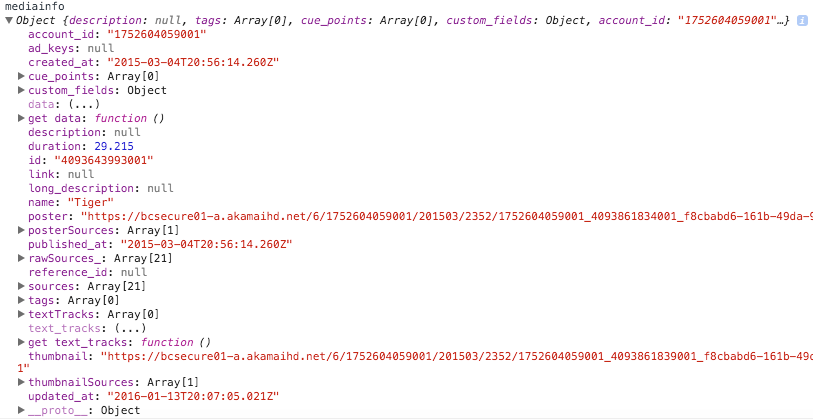
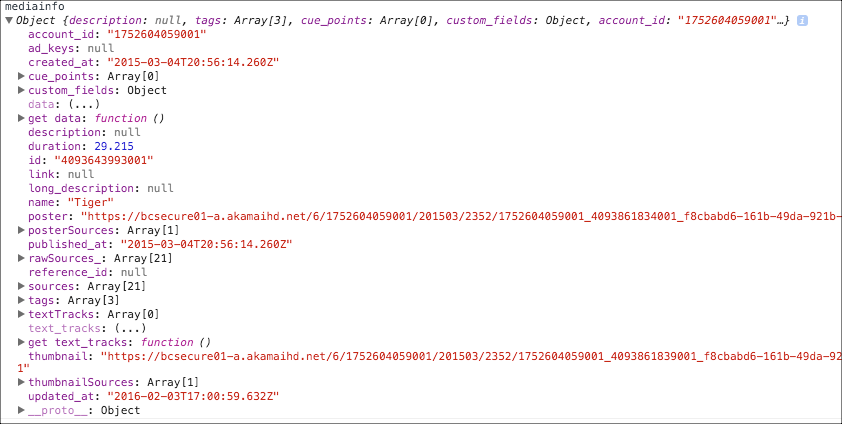
LIRA KNOW-6316

Changed region(s): [[0.0, 0.0, 1.0, 1.0]]

diff --git a/en/perform/brightcove-player/guides/mediainfo.html b/en/perform/brightcove-player/guides/mediainfo.html
@@ -150,7 +150,7 @@
 				</table>
 			</div>
 			<div id="code" class="section video-cloud-only">
-				<h2>Populating mediainfo</h2>
+				<h2>Populate mediainfo</h2>
 				<p>Using the <code>on()</code> method you wait for the <code>loadstart</code> event to be dispatched, then in the corresponding event handler you access the values stored in <code>mediainfo</code> object. From the code below note the use of <code>console.log</code> that displays the <code>mediainfo</code> object (lines 111-113).</p>
 				<p><code data-gist-id="c2c5e5751d2022667ef1" data-gist-hide-footer="true" data-gist-line="100-115" data-gist-highlight-line="111-113"></code></p>
         <p>An example display from the console is shown here:</p>
@@ -169,6 +169,16 @@
 				</ul>
 				<p><code data-gist-id="c2c5e5751d2022667ef1" data-gist-hide-footer="true" data-gist-line="32-59" data-gist-highlight-line="56-57"></code></p>
 			</div>
+      <div id="displaytagsfields" class="section">
+        <h2>Display tags and custom fields</h2>
+        <p>Both the tags and custom fields are stored in complex data structures. The <strong>custom_fields</strong> in an object and <strong>tags</strong> in an array. The following screenshot shows the custom fields and tags highlighted in the <code>mediainfo</code> object.</p>
+        <div><img src="/en/video-cloud/brightcove-player/guides/assets/mediainfo/tags-custom-fields.png" alt="tags and custom fields in console display"></div>
+        <p>To display the data from these complex data structures you need to kinds of loops. A <code>for</code> loop is used to iterate over the tags array (lines 128-133) and inject the dynamically built HTML unordered list into a <code>&lt;div&gt;</code> ( defined in line 125). A <code>for-in</code> loop is used to iterate over the custom fields object (lines 136-140) and inject the dynamically built HTML unordered list into the <code>&lt;div&gt;</code>.</p>
+        <p><code data-gist-id="c2c5e5751d2022667ef1" data-gist-hide-footer="true" data-gist-line="125-140"></code></p>
+        <p>The rendered HTML appears as shown in this screenshot.</p>
+        <div><img src="/en/video-cloud/brightcove-player/guides/assets/mediainfo/html-display.png" alt="tags and custom display in HTML"></div>
+        <p class="BCL-aside">Note: The custom field keys, <strong>customfield1</strong> and <strong>customfield2</strong>, are demo names only. You would choose key names that reflect the data stored in the custom field.</p>
+      </div>
 			<div class="section video-cloud-only" id="BCLreferences">
 				<h2>Related Topics</h2>
 				<ul>

diff --git a/en/video-cloud/brightcove-player/guides/mediainfo.html b/en/video-cloud/brightcove-player/guides/mediainfo.html
@@ -150,7 +150,7 @@
 				</table>
 			</div>
 			<div id="code" class="section video-cloud-only">
-				<h2>Populating mediainfo</h2>
+				<h2>Populate mediainfo</h2>
 				<p>Using the <code>on()</code> method you wait for the <code>loadstart</code> event to be dispatched, then in the corresponding event handler you access the values stored in <code>mediainfo</code> object. From the code below note the use of <code>console.log</code> that displays the <code>mediainfo</code> object (lines 111-113).</p>
 				<p><code data-gist-id="c2c5e5751d2022667ef1" data-gist-hide-footer="true" data-gist-line="100-115" data-gist-highlight-line="111-113"></code></p>
         <p>An example display from the console is shown here:</p>
@@ -169,6 +169,16 @@
 				</ul>
 				<p><code data-gist-id="c2c5e5751d2022667ef1" data-gist-hide-footer="true" data-gist-line="32-59" data-gist-highlight-line="56-57"></code></p>
 			</div>
+      <div id="displaytagsfields" class="section">
+        <h2>Display tags and custom fields</h2>
+        <p>Both the tags and custom fields are stored in complex data structures. The <strong>custom_fields</strong> in an object and <strong>tags</strong> in an array. The following screenshot shows the custom fields and tags highlighted in the <code>mediainfo</code> object.</p>
+        <div><img src="/en/video-cloud/brightcove-player/guides/assets/mediainfo/tags-custom-fields.png" alt="tags and custom fields in console display"></div>
+        <p>To display the data from these complex data structures you need to kinds of loops. A <code>for</code> loop is used to iterate over the tags array (lines 128-133) and inject the dynamically built HTML unordered list into a <code>&lt;div&gt;</code> ( defined in line 125). A <code>for-in</code> loop is used to iterate over the custom fields object (lines 136-140) and inject the dynamically built HTML unordered list into the <code>&lt;div&gt;</code>.</p>
+        <p><code data-gist-id="c2c5e5751d2022667ef1" data-gist-hide-footer="true" data-gist-line="125-140"></code></p>
+        <p>The rendered HTML appears as shown in this screenshot.</p>
+        <div><img src="/en/video-cloud/brightcove-player/guides/assets/mediainfo/html-display.png" alt="tags and custom display in HTML"></div>
+        <p class="BCL-aside">Note: The custom field keys, <strong>customfield1</strong> and <strong>customfield2</strong>, are demo names only. You would choose key names that reflect the data stored in the custom field.</p>
+      </div>
 			<div class="section video-cloud-only" id="BCLreferences">
 				<h2>Related Topics</h2>
 				<ul>

diff --git a/en/perform/brightcove-player/guides/customize-appearance.html b/en/perform/brightcove-player/guides/customize-appearance.html
@@ -173,6 +173,8 @@
         <p>If you wish the icon to appear at the far right of the controlbar, you would replace the <code>insertBefore()</code> with  the <code>appendChild()</code> method, as shown here:</p>
         <p><code data-gist-id="a84d9ce7fb1054d288b6" data-gist-hide-footer="true" data-gist-line="343"></code></p>
         <p>An example of adding an icon (for downloading a file in this case) is shown in the <a href="../../brightcove-player/samples/download-video.html">Brightcove Player Sample: Download Video Plugin</a> document.</p>
+        <h3>Use the spacer</h3>
+        <div><img src="/en/video-cloud/brightcove-player/guides/assets/customize-appearance/spacer.png" alt="spacer in console"></div>        
       </div>
       <div id="specificity" class="section">
         <h2>CSS specificity</h2>

diff --git a/en/video-cloud/brightcove-player/guides/customize-appearance.html b/en/video-cloud/brightcove-player/guides/customize-appearance.html
@@ -173,6 +173,8 @@
         <p>If you wish the icon to appear at the far right of the controlbar, you would replace the <code>insertBefore()</code> with  the <code>appendChild()</code> method, as shown here:</p>
         <p><code data-gist-id="a84d9ce7fb1054d288b6" data-gist-hide-footer="true" data-gist-line="343"></code></p>
         <p>An example of adding an icon (for downloading a file in this case) is shown in the <a href="../../brightcove-player/samples/download-video.html">Brightcove Player Sample: Download Video Plugin</a> document.</p>
+        <h3>Use the spacer</h3>
+        <div><img src="/en/video-cloud/brightcove-player/guides/assets/customize-appearance/spacer.png" alt="spacer in console"></div>        
       </div>
       <div id="specificity" class="section">
         <h2>CSS specificity</h2>
